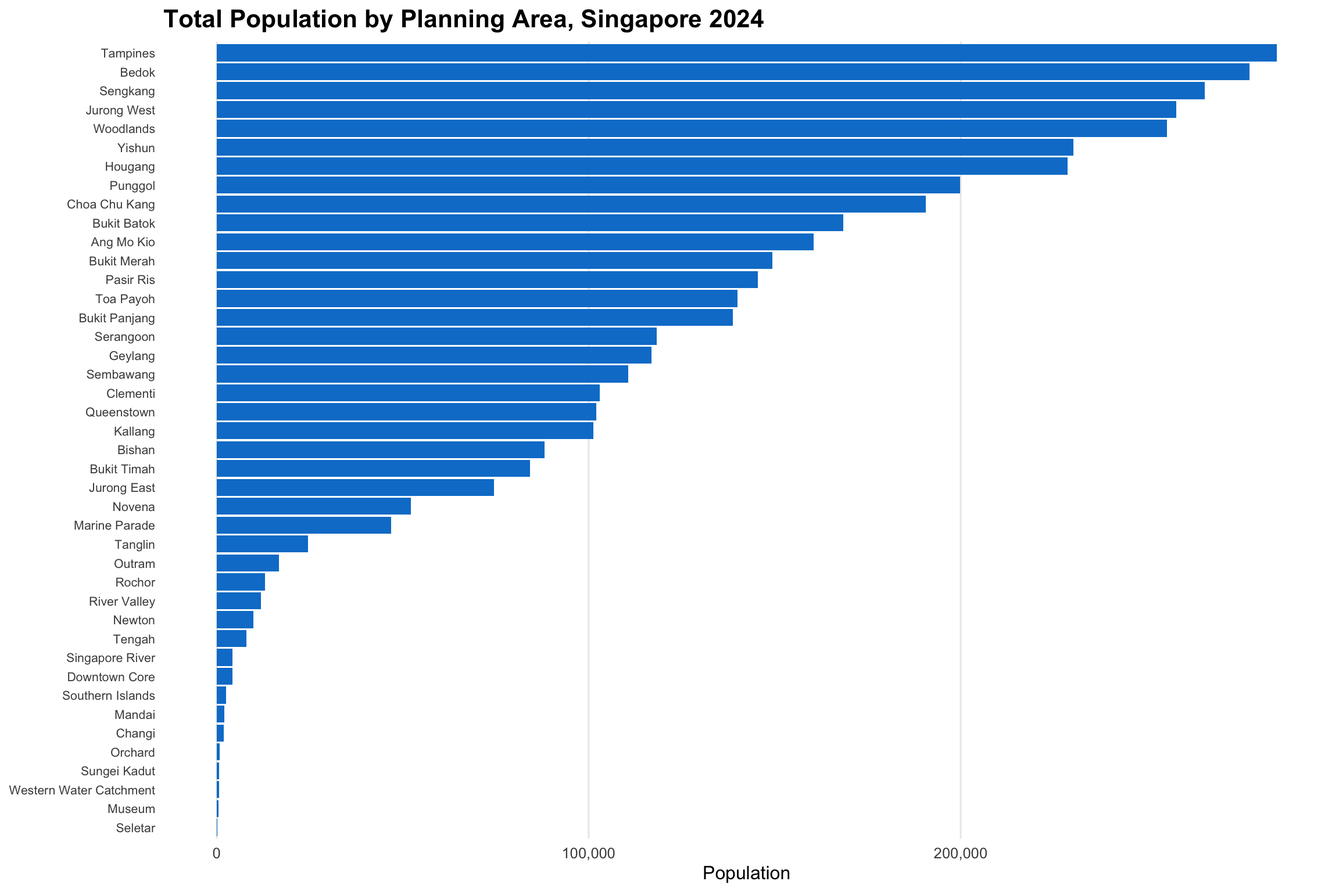
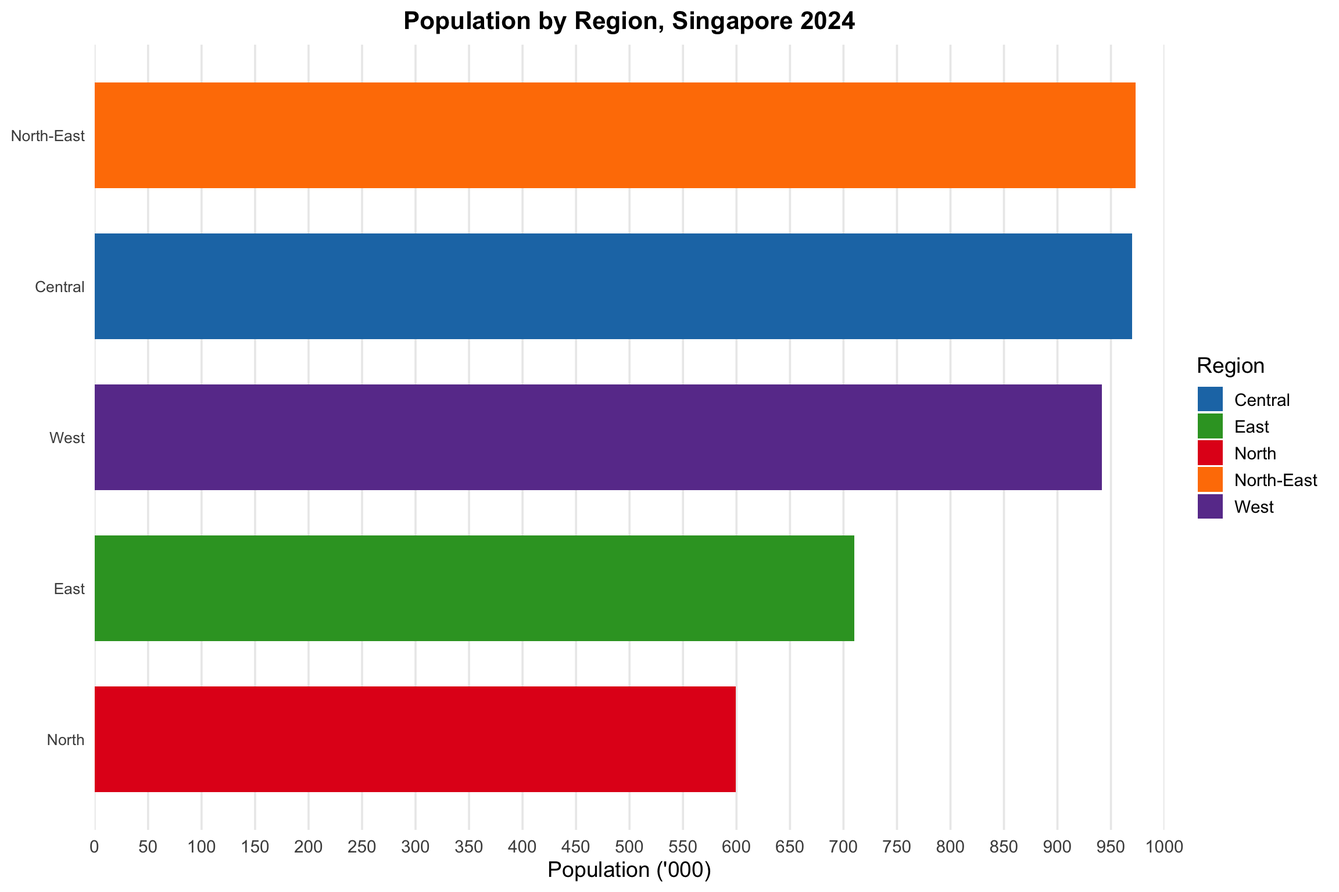
Second iteration check of take home exercise 1

diff --git a/_site/Take-home_Ex/Take-home_Ex01/Take-home_Ex01.html b/_site/Take-home_Ex/Take-home_Ex01/Take-home_Ex01.html
@@ -251,7 +251,7 @@ pre > code.sourceCode > span > a:first-child::before { text-decoration: underlin
 <section id="importing-packages" class="level1">
 <h1>1 Importing Packages</h1>
 <div class="cell">
-<div class="sourceCode cell-code" id="cb1"><pre class="sourceCode r code-with-copy"><code class="sourceCode r"><span id="cb1-1"><a href="#cb1-1" aria-hidden="true" tabindex="-1"></a>pacman<span class="sc">::</span><span class="fu">p_load</span>(tidyverse, ggthemes,viridis,ggridges,ggrepel,patchwork, readr, dplyr, Hmisc)</span></code><button title="Copy to Clipboard" class="code-copy-button"><i class="bi"></i></button></pre></div>
+<div class="sourceCode cell-code" id="cb1"><pre class="sourceCode r code-with-copy"><code class="sourceCode r"><span id="cb1-1"><a href="#cb1-1" aria-hidden="true" tabindex="-1"></a>pacman<span class="sc">::</span><span class="fu">p_load</span>(tidyverse, ggthemes,viridis,ggridges,ggrepel,patchwork, readr, dplyr, forcats)</span></code><button title="Copy to Clipboard" class="code-copy-button"><i class="bi"></i></button></pre></div>
 </div>
 </section>
 <section id="importing-data" class="level1">
@@ -695,28 +695,77 @@ Final check and summary
 </div>
 </div>
 <div class="cell">
-<div class="sourceCode cell-code" id="cb52"><pre class="sourceCode r code-with-copy"><code class="sourceCode r"><span id="cb52-1"><a href="#cb52-1" aria-hidden="true" tabindex="-1"></a><span class="co"># 1. Summarise total population by PA</span></span>
-<span id="cb52-2"><a href="#cb52-2" aria-hidden="true" tabindex="-1"></a>pa_pop <span class="ot">&lt;-</span> sgdemo2024 <span class="sc">%&gt;%</span></span>
-<span id="cb52-3"><a href="#cb52-3" aria-hidden="true" tabindex="-1"></a>  <span class="fu">group_by</span>(PA) <span class="sc">%&gt;%</span></span>
-<span id="cb52-4"><a href="#cb52-4" aria-hidden="true" tabindex="-1"></a>  <span class="fu">summarise</span>(<span class="at">TotalPop =</span> <span class="fu">sum</span>(Pop), <span class="at">.groups =</span> <span class="st">"drop"</span>) <span class="sc">%&gt;%</span></span>
-<span id="cb52-5"><a href="#cb52-5" aria-hidden="true" tabindex="-1"></a>  <span class="fu">arrange</span>(TotalPop)</span>
-<span id="cb52-6"><a href="#cb52-6" aria-hidden="true" tabindex="-1"></a></span>
-<span id="cb52-7"><a href="#cb52-7" aria-hidden="true" tabindex="-1"></a><span class="co"># 2. Plot horizontal bars</span></span>
-<span id="cb52-8"><a href="#cb52-8" aria-hidden="true" tabindex="-1"></a><span class="fu">ggplot</span>(pa_pop, <span class="fu">aes</span>(<span class="at">x =</span> TotalPop, <span class="at">y =</span> <span class="fu">fct_reorder</span>(PA, TotalPop))) <span class="sc">+</span></span>
-<span id="cb52-9"><a href="#cb52-9" aria-hidden="true" tabindex="-1"></a>  <span class="fu">geom_col</span>(<span class="at">fill =</span> <span class="st">"#067FD0"</span>) <span class="sc">+</span></span>
-<span id="cb52-10"><a href="#cb52-10" aria-hidden="true" tabindex="-1"></a>  <span class="fu">scale_x_continuous</span>(<span class="at">labels =</span> scales<span class="sc">::</span>comma) <span class="sc">+</span></span>
-<span id="cb52-11"><a href="#cb52-11" aria-hidden="true" tabindex="-1"></a>  <span class="fu">labs</span>(</span>
-<span id="cb52-12"><a href="#cb52-12" aria-hidden="true" tabindex="-1"></a>    <span class="at">title =</span> <span class="st">"Total Population by Planning Area, Singapore 2024"</span>,</span>
-<span id="cb52-13"><a href="#cb52-13" aria-hidden="true" tabindex="-1"></a>    <span class="at">x     =</span> <span class="st">"Population"</span>,</span>
-<span id="cb52-14"><a href="#cb52-14" aria-hidden="true" tabindex="-1"></a>    <span class="at">y     =</span> <span class="cn">NULL</span></span>
-<span id="cb52-15"><a href="#cb52-15" aria-hidden="true" tabindex="-1"></a>  ) <span class="sc">+</span></span>
-<span id="cb52-16"><a href="#cb52-16" aria-hidden="true" tabindex="-1"></a>  <span class="fu">theme_minimal</span>(<span class="at">base_size =</span> <span class="dv">12</span>) <span class="sc">+</span></span>
-<span id="cb52-17"><a href="#cb52-17" aria-hidden="true" tabindex="-1"></a>  <span class="fu">theme</span>(</span>
-<span id="cb52-18"><a href="#cb52-18" aria-hidden="true" tabindex="-1"></a>    <span class="at">plot.title         =</span> <span class="fu">element_text</span>(<span class="at">size =</span> <span class="dv">16</span>, <span class="at">face =</span> <span class="st">"bold"</span>),</span>
-<span id="cb52-19"><a href="#cb52-19" aria-hidden="true" tabindex="-1"></a>    <span class="at">axis.text.y        =</span> <span class="fu">element_text</span>(<span class="at">size =</span> <span class="dv">8</span>),</span>
-<span id="cb52-20"><a href="#cb52-20" aria-hidden="true" tabindex="-1"></a>    <span class="at">panel.grid.major.y =</span> <span class="fu">element_blank</span>(),</span>
-<span id="cb52-21"><a href="#cb52-21" aria-hidden="true" tabindex="-1"></a>    <span class="at">panel.grid.minor   =</span> <span class="fu">element_blank</span>()</span>
-<span id="cb52-22"><a href="#cb52-22" aria-hidden="true" tabindex="-1"></a>  )</span></code><button title="Copy to Clipboard" class="code-copy-button"><i class="bi"></i></button></pre></div>
+<div class="sourceCode cell-code" id="cb52"><pre class="sourceCode r code-with-copy"><code class="sourceCode r"><span id="cb52-1"><a href="#cb52-1" aria-hidden="true" tabindex="-1"></a><span class="co"># 1. Define Planning Areas by Region</span></span>
+<span id="cb52-2"><a href="#cb52-2" aria-hidden="true" tabindex="-1"></a>central      <span class="ot">&lt;-</span> <span class="fu">c</span>(<span class="st">"Bishan"</span>,<span class="st">"Bukit Merah"</span>,<span class="st">"Bukit Timah"</span>,<span class="st">"Downtown Core"</span>,<span class="st">"Geylang"</span>,</span>
+<span id="cb52-3"><a href="#cb52-3" aria-hidden="true" tabindex="-1"></a>                  <span class="st">"Kallang"</span>,<span class="st">"Marina East"</span>,<span class="st">"Marina South"</span>,<span class="st">"Marine Parade"</span>,<span class="st">"Museum"</span>,</span>
+<span id="cb52-4"><a href="#cb52-4" aria-hidden="true" tabindex="-1"></a>                  <span class="st">"Newton"</span>,<span class="st">"Novena"</span>,<span class="st">"Orchard"</span>,<span class="st">"Outram"</span>,<span class="st">"Queenstown"</span>,<span class="st">"River Valley"</span>,</span>
+<span id="cb52-5"><a href="#cb52-5" aria-hidden="true" tabindex="-1"></a>                  <span class="st">"Rochor"</span>,<span class="st">"Singapore River"</span>,<span class="st">"Southern Islands"</span>,<span class="st">"Straits View"</span>,</span>
+<span id="cb52-6"><a href="#cb52-6" aria-hidden="true" tabindex="-1"></a>                  <span class="st">"Tanglin"</span>,<span class="st">"Toa Payoh"</span>)</span>
+<span id="cb52-7"><a href="#cb52-7" aria-hidden="true" tabindex="-1"></a>east         <span class="ot">&lt;-</span> <span class="fu">c</span>(<span class="st">"Bedok"</span>,<span class="st">"Changi"</span>,<span class="st">"Changi Bay"</span>,<span class="st">"Pasir Ris"</span>,<span class="st">"Paya Lebar"</span>,<span class="st">"Tampines"</span>)</span>
+<span id="cb52-8"><a href="#cb52-8" aria-hidden="true" tabindex="-1"></a>north        <span class="ot">&lt;-</span> <span class="fu">c</span>(<span class="st">"Central Water Catchment"</span>,<span class="st">"Lim Chu Kang"</span>,<span class="st">"Mandai"</span>,<span class="st">"Sembawang"</span>,</span>
+<span id="cb52-9"><a href="#cb52-9" aria-hidden="true" tabindex="-1"></a>                  <span class="st">"Simpang"</span>,<span class="st">"Sungei Kadut"</span>,<span class="st">"Woodlands"</span>,<span class="st">"Yishun"</span>)</span>
+<span id="cb52-10"><a href="#cb52-10" aria-hidden="true" tabindex="-1"></a>north_east   <span class="ot">&lt;-</span> <span class="fu">c</span>(<span class="st">"Ang Mo Kio"</span>,<span class="st">"Hougang"</span>,<span class="st">"North-Eastern Islands"</span>,<span class="st">"Punggol"</span>,</span>
+<span id="cb52-11"><a href="#cb52-11" aria-hidden="true" tabindex="-1"></a>                  <span class="st">"Seletar"</span>,<span class="st">"Sengkang"</span>,<span class="st">"Serangoon"</span>)</span>
+<span id="cb52-12"><a href="#cb52-12" aria-hidden="true" tabindex="-1"></a>west         <span class="ot">&lt;-</span> <span class="fu">c</span>(<span class="st">"Boon Lay"</span>,<span class="st">"Bukit Batok"</span>,<span class="st">"Bukit Panjang"</span>,<span class="st">"Choa Chu Kang"</span>,</span>
+<span id="cb52-13"><a href="#cb52-13" aria-hidden="true" tabindex="-1"></a>                  <span class="st">"Clementi"</span>,<span class="st">"Jurong East"</span>,<span class="st">"Jurong West"</span>,<span class="st">"Pioneer"</span>,<span class="st">"Tengah"</span>,</span>
+<span id="cb52-14"><a href="#cb52-14" aria-hidden="true" tabindex="-1"></a>                  <span class="st">"Tuas"</span>,<span class="st">"Western Islands"</span>,<span class="st">"Western Water Catchment"</span>)</span>
+<span id="cb52-15"><a href="#cb52-15" aria-hidden="true" tabindex="-1"></a></span>
+<span id="cb52-16"><a href="#cb52-16" aria-hidden="true" tabindex="-1"></a><span class="co"># 2. Tag each PA with its region</span></span>
+<span id="cb52-17"><a href="#cb52-17" aria-hidden="true" tabindex="-1"></a>sgdemo2024 <span class="ot">&lt;-</span> sgdemo2024 <span class="sc">%&gt;%</span></span>
+<span id="cb52-18"><a href="#cb52-18" aria-hidden="true" tabindex="-1"></a>  <span class="fu">mutate</span>(</span>
+<span id="cb52-19"><a href="#cb52-19" aria-hidden="true" tabindex="-1"></a>    <span class="at">Region =</span> <span class="fu">case_when</span>(</span>
+<span id="cb52-20"><a href="#cb52-20" aria-hidden="true" tabindex="-1"></a>      PA <span class="sc">%in%</span> central    <span class="sc">~</span> <span class="st">"Central"</span>,</span>
+<span id="cb52-21"><a href="#cb52-21" aria-hidden="true" tabindex="-1"></a>      PA <span class="sc">%in%</span> east       <span class="sc">~</span> <span class="st">"East"</span>,</span>
+<span id="cb52-22"><a href="#cb52-22" aria-hidden="true" tabindex="-1"></a>      PA <span class="sc">%in%</span> north      <span class="sc">~</span> <span class="st">"North"</span>,</span>
+<span id="cb52-23"><a href="#cb52-23" aria-hidden="true" tabindex="-1"></a>      PA <span class="sc">%in%</span> north_east <span class="sc">~</span> <span class="st">"North-East"</span>,</span>
+<span id="cb52-24"><a href="#cb52-24" aria-hidden="true" tabindex="-1"></a>      PA <span class="sc">%in%</span> west       <span class="sc">~</span> <span class="st">"West"</span>,</span>
+<span id="cb52-25"><a href="#cb52-25" aria-hidden="true" tabindex="-1"></a>      <span class="cn">TRUE</span>               <span class="sc">~</span> <span class="cn">NA_character_</span></span>
+<span id="cb52-26"><a href="#cb52-26" aria-hidden="true" tabindex="-1"></a>    )</span>
+<span id="cb52-27"><a href="#cb52-27" aria-hidden="true" tabindex="-1"></a>  )</span>
+<span id="cb52-28"><a href="#cb52-28" aria-hidden="true" tabindex="-1"></a></span>
+<span id="cb52-29"><a href="#cb52-29" aria-hidden="true" tabindex="-1"></a><span class="co"># 3. Summarise and convert to thousands</span></span>
+<span id="cb52-30"><a href="#cb52-30" aria-hidden="true" tabindex="-1"></a>region_pop <span class="ot">&lt;-</span> sgdemo2024 <span class="sc">%&gt;%</span></span>
+<span id="cb52-31"><a href="#cb52-31" aria-hidden="true" tabindex="-1"></a>  <span class="fu">filter</span>(<span class="sc">!</span><span class="fu">is.na</span>(Region)) <span class="sc">%&gt;%</span></span>
+<span id="cb52-32"><a href="#cb52-32" aria-hidden="true" tabindex="-1"></a>  <span class="fu">group_by</span>(Region) <span class="sc">%&gt;%</span></span>
+<span id="cb52-33"><a href="#cb52-33" aria-hidden="true" tabindex="-1"></a>  <span class="fu">summarise</span>(<span class="at">TotalPop =</span> <span class="fu">sum</span>(Pop), <span class="at">.groups =</span> <span class="st">"drop"</span>) <span class="sc">%&gt;%</span></span>
+<span id="cb52-34"><a href="#cb52-34" aria-hidden="true" tabindex="-1"></a>  <span class="fu">mutate</span>(<span class="at">TotalPopK =</span> TotalPop <span class="sc">/</span> <span class="dv">1000</span>) <span class="sc">%&gt;%</span></span>
+<span id="cb52-35"><a href="#cb52-35" aria-hidden="true" tabindex="-1"></a>  <span class="fu">arrange</span>(TotalPopK)</span>
+<span id="cb52-36"><a href="#cb52-36" aria-hidden="true" tabindex="-1"></a></span>
+<span id="cb52-37"><a href="#cb52-37" aria-hidden="true" tabindex="-1"></a><span class="co"># 4. Compute max_k and breaks every 50 (’000)</span></span>
+<span id="cb52-38"><a href="#cb52-38" aria-hidden="true" tabindex="-1"></a>max_k    <span class="ot">&lt;-</span> <span class="fu">ceiling</span>(<span class="fu">max</span>(region_pop<span class="sc">$</span>TotalPopK) <span class="sc">/</span> <span class="dv">50</span>) <span class="sc">*</span> <span class="dv">50</span></span>
+<span id="cb52-39"><a href="#cb52-39" aria-hidden="true" tabindex="-1"></a>breaks_k <span class="ot">&lt;-</span> <span class="fu">seq</span>(<span class="dv">0</span>, max_k, <span class="at">by =</span> <span class="dv">50</span>)</span>
+<span id="cb52-40"><a href="#cb52-40" aria-hidden="true" tabindex="-1"></a></span>
+<span id="cb52-41"><a href="#cb52-41" aria-hidden="true" tabindex="-1"></a><span class="co"># 5. Plot, forcing the labels to exact integers</span></span>
+<span id="cb52-42"><a href="#cb52-42" aria-hidden="true" tabindex="-1"></a><span class="fu">ggplot</span>(region_pop, <span class="fu">aes</span>(<span class="at">x =</span> TotalPopK, <span class="at">y =</span> <span class="fu">fct_reorder</span>(Region, TotalPopK), <span class="at">fill =</span> Region)) <span class="sc">+</span></span>
+<span id="cb52-43"><a href="#cb52-43" aria-hidden="true" tabindex="-1"></a>  <span class="fu">geom_col</span>(<span class="at">width =</span> <span class="fl">0.7</span>) <span class="sc">+</span></span>
+<span id="cb52-44"><a href="#cb52-44" aria-hidden="true" tabindex="-1"></a>  <span class="fu">scale_x_continuous</span>(</span>
+<span id="cb52-45"><a href="#cb52-45" aria-hidden="true" tabindex="-1"></a>    <span class="at">name   =</span> <span class="st">"Population ('000)"</span>,</span>
+<span id="cb52-46"><a href="#cb52-46" aria-hidden="true" tabindex="-1"></a>    <span class="at">limits =</span> <span class="fu">c</span>(<span class="dv">0</span>, max_k),</span>
+<span id="cb52-47"><a href="#cb52-47" aria-hidden="true" tabindex="-1"></a>    <span class="at">breaks =</span> breaks_k,</span>
+<span id="cb52-48"><a href="#cb52-48" aria-hidden="true" tabindex="-1"></a>    <span class="at">labels =</span> <span class="fu">as.character</span>(breaks_k),  <span class="co"># exact labels: "0","50","100",...,"1000"</span></span>
+<span id="cb52-49"><a href="#cb52-49" aria-hidden="true" tabindex="-1"></a>    <span class="at">expand =</span> <span class="fu">c</span>(<span class="dv">0</span>, <span class="dv">0</span>)</span>
+<span id="cb52-50"><a href="#cb52-50" aria-hidden="true" tabindex="-1"></a>  ) <span class="sc">+</span></span>
+<span id="cb52-51"><a href="#cb52-51" aria-hidden="true" tabindex="-1"></a>  <span class="fu">scale_fill_manual</span>(</span>
+<span id="cb52-52"><a href="#cb52-52" aria-hidden="true" tabindex="-1"></a>    <span class="at">values =</span> <span class="fu">c</span>(</span>
+<span id="cb52-53"><a href="#cb52-53" aria-hidden="true" tabindex="-1"></a>      <span class="st">"Central"</span>    <span class="ot">=</span> <span class="st">"#1f78b4"</span>,</span>
+<span id="cb52-54"><a href="#cb52-54" aria-hidden="true" tabindex="-1"></a>      <span class="st">"East"</span>       <span class="ot">=</span> <span class="st">"#33a02c"</span>,</span>
+<span id="cb52-55"><a href="#cb52-55" aria-hidden="true" tabindex="-1"></a>      <span class="st">"North"</span>      <span class="ot">=</span> <span class="st">"#e31a1c"</span>,</span>
+<span id="cb52-56"><a href="#cb52-56" aria-hidden="true" tabindex="-1"></a>      <span class="st">"North-East"</span> <span class="ot">=</span> <span class="st">"#ff7f00"</span>,</span>
+<span id="cb52-57"><a href="#cb52-57" aria-hidden="true" tabindex="-1"></a>      <span class="st">"West"</span>       <span class="ot">=</span> <span class="st">"#6a3d9a"</span></span>
+<span id="cb52-58"><a href="#cb52-58" aria-hidden="true" tabindex="-1"></a>    )</span>
+<span id="cb52-59"><a href="#cb52-59" aria-hidden="true" tabindex="-1"></a>  ) <span class="sc">+</span></span>
+<span id="cb52-60"><a href="#cb52-60" aria-hidden="true" tabindex="-1"></a>  <span class="fu">labs</span>(</span>
+<span id="cb52-61"><a href="#cb52-61" aria-hidden="true" tabindex="-1"></a>    <span class="at">title =</span> <span class="st">"Population by Region, Singapore 2024"</span>,</span>
+<span id="cb52-62"><a href="#cb52-62" aria-hidden="true" tabindex="-1"></a>    <span class="at">y     =</span> <span class="cn">NULL</span></span>
+<span id="cb52-63"><a href="#cb52-63" aria-hidden="true" tabindex="-1"></a>  ) <span class="sc">+</span></span>
+<span id="cb52-64"><a href="#cb52-64" aria-hidden="true" tabindex="-1"></a>  <span class="fu">theme_minimal</span>(<span class="at">base_size =</span> <span class="dv">14</span>) <span class="sc">+</span></span>
+<span id="cb52-65"><a href="#cb52-65" aria-hidden="true" tabindex="-1"></a>  <span class="fu">theme</span>(</span>
+<span id="cb52-66"><a href="#cb52-66" aria-hidden="true" tabindex="-1"></a>    <span class="at">plot.title         =</span> <span class="fu">element_text</span>(<span class="at">size =</span> <span class="dv">16</span>, <span class="at">face =</span> <span class="st">"bold"</span>, <span class="at">hjust =</span> <span class="fl">0.5</span>),</span>
+<span id="cb52-67"><a href="#cb52-67" aria-hidden="true" tabindex="-1"></a>    <span class="at">axis.text.y        =</span> <span class="fu">element_text</span>(<span class="at">size =</span> <span class="dv">10</span>),</span>
+<span id="cb52-68"><a href="#cb52-68" aria-hidden="true" tabindex="-1"></a>    <span class="at">panel.grid.major.y =</span> <span class="fu">element_blank</span>(),</span>
+<span id="cb52-69"><a href="#cb52-69" aria-hidden="true" tabindex="-1"></a>    <span class="at">panel.grid.minor   =</span> <span class="fu">element_blank</span>(),</span>
+<span id="cb52-70"><a href="#cb52-70" aria-hidden="true" tabindex="-1"></a>    <span class="at">legend.position    =</span> <span class="st">"right"</span></span>
+<span id="cb52-71"><a href="#cb52-71" aria-hidden="true" tabindex="-1"></a>  )</span></code><button title="Copy to Clipboard" class="code-copy-button"><i class="bi"></i></button></pre></div>
 <div class="cell-output-display">
 <div>
 <figure class="figure">
@@ -727,67 +776,66 @@ Final check and summary
 </div>
 <div class="cell">
 <div class="sourceCode cell-code" id="cb53"><pre class="sourceCode r code-with-copy"><code class="sourceCode r"><span id="cb53-1"><a href="#cb53-1" aria-hidden="true" tabindex="-1"></a><span class="co"># 1. Define Planning Areas by Region</span></span>
-<span id="cb53-2"><a href="#cb53-2" aria-hidden="true" tabindex="-1"></a>central      <span class="ot">&lt;-</span> <span class="fu">c</span>(<span class="st">"Bishan"</span>,<span class="st">"Bukit Merah"</span>,<span class="st">"Bukit Timah"</span>,<span class="st">"Downtown Core"</span>,<span class="st">"Geylang"</span>,</span>
-<span id="cb53-3"><a href="#cb53-3" aria-hidden="true" tabindex="-1"></a>                  <span class="st">"Kallang"</span>,<span class="st">"Marina East"</span>,<span class="st">"Marina South"</span>,<span class="st">"Marine Parade"</span>,<span class="st">"Museum"</span>,</span>
-<span id="cb53-4"><a href="#cb53-4" aria-hidden="true" tabindex="-1"></a>                  <span class="st">"Newton"</span>,<span class="st">"Novena"</span>,<span class="st">"Orchard"</span>,<span class="st">"Outram"</span>,<span class="st">"Queenstown"</span>,<span class="st">"River Valley"</span>,</span>
-<span id="cb53-5"><a href="#cb53-5" aria-hidden="true" tabindex="-1"></a>                  <span class="st">"Rochor"</span>,<span class="st">"Singapore River"</span>,<span class="st">"Southern Islands"</span>,<span class="st">"Straits View"</span>,</span>
-<span id="cb53-6"><a href="#cb53-6" aria-hidden="true" tabindex="-1"></a>                  <span class="st">"Tanglin"</span>,<span class="st">"Toa Payoh"</span>)</span>
-<span id="cb53-7"><a href="#cb53-7" aria-hidden="true" tabindex="-1"></a>east         <span class="ot">&lt;-</span> <span class="fu">c</span>(<span class="st">"Bedok"</span>,<span class="st">"Changi"</span>,<span class="st">"Changi Bay"</span>,<span class="st">"Pasir Ris"</span>,<span class="st">"Paya Lebar"</span>,<span class="st">"Tampines"</span>)</span>
-<span id="cb53-8"><a href="#cb53-8" aria-hidden="true" tabindex="-1"></a>north        <span class="ot">&lt;-</span> <span class="fu">c</span>(<span class="st">"Central Water Catchment"</span>,<span class="st">"Lim Chu Kang"</span>,<span class="st">"Mandai"</span>,<span class="st">"Sembawang"</span>,</span>
-<span id="cb53-9"><a href="#cb53-9" aria-hidden="true" tabindex="-1"></a>                  <span class="st">"Simpang"</span>,<span class="st">"Sungei Kadut"</span>,<span class="st">"Woodlands"</span>,<span class="st">"Yishun"</span>)</span>
-<span id="cb53-10"><a href="#cb53-10" aria-hidden="true" tabindex="-1"></a>north_east   <span class="ot">&lt;-</span> <span class="fu">c</span>(<span class="st">"Ang Mo Kio"</span>,<span class="st">"Hougang"</span>,<span class="st">"North-Eastern Islands"</span>,<span class="st">"Punggol"</span>,</span>
-<span id="cb53-11"><a href="#cb53-11" aria-hidden="true" tabindex="-1"></a>                  <span class="st">"Seletar"</span>,<span class="st">"Sengkang"</span>,<span class="st">"Serangoon"</span>)</span>
-<span id="cb53-12"><a href="#cb53-12" aria-hidden="true" tabindex="-1"></a>west         <span class="ot">&lt;-</span> <span class="fu">c</span>(<span class="st">"Boon Lay"</span>,<span class="st">"Bukit Batok"</span>,<span class="st">"Bukit Panjang"</span>,<span class="st">"Choa Chu Kang"</span>,</span>
-<span id="cb53-13"><a href="#cb53-13" aria-hidden="true" tabindex="-1"></a>                  <span class="st">"Clementi"</span>,<span class="st">"Jurong East"</span>,<span class="st">"Jurong West"</span>,<span class="st">"Pioneer"</span>,<span class="st">"Tengah"</span>,</span>
-<span id="cb53-14"><a href="#cb53-14" aria-hidden="true" tabindex="-1"></a>                  <span class="st">"Tuas"</span>,<span class="st">"Western Islands"</span>,<span class="st">"Western Water Catchment"</span>)</span>
+<span id="cb53-2"><a href="#cb53-2" aria-hidden="true" tabindex="-1"></a>central    <span class="ot">&lt;-</span> <span class="fu">c</span>(<span class="st">"Bishan"</span>,<span class="st">"Bukit Merah"</span>,<span class="st">"Bukit Timah"</span>,<span class="st">"Downtown Core"</span>,<span class="st">"Geylang"</span>,</span>
+<span id="cb53-3"><a href="#cb53-3" aria-hidden="true" tabindex="-1"></a>                <span class="st">"Kallang"</span>,<span class="st">"Marina East"</span>,<span class="st">"Marina South"</span>,<span class="st">"Marine Parade"</span>,<span class="st">"Museum"</span>,</span>
+<span id="cb53-4"><a href="#cb53-4" aria-hidden="true" tabindex="-1"></a>                <span class="st">"Newton"</span>,<span class="st">"Novena"</span>,<span class="st">"Orchard"</span>,<span class="st">"Outram"</span>,<span class="st">"Queenstown"</span>,<span class="st">"River Valley"</span>,</span>
+<span id="cb53-5"><a href="#cb53-5" aria-hidden="true" tabindex="-1"></a>                <span class="st">"Rochor"</span>,<span class="st">"Singapore River"</span>,<span class="st">"Southern Islands"</span>,<span class="st">"Straits View"</span>,</span>
+<span id="cb53-6"><a href="#cb53-6" aria-hidden="true" tabindex="-1"></a>                <span class="st">"Tanglin"</span>,<span class="st">"Toa Payoh"</span>)</span>
+<span id="cb53-7"><a href="#cb53-7" aria-hidden="true" tabindex="-1"></a>east       <span class="ot">&lt;-</span> <span class="fu">c</span>(<span class="st">"Bedok"</span>,<span class="st">"Changi"</span>,<span class="st">"Changi Bay"</span>,<span class="st">"Pasir Ris"</span>,<span class="st">"Paya Lebar"</span>,<span class="st">"Tampines"</span>)</span>
+<span id="cb53-8"><a href="#cb53-8" aria-hidden="true" tabindex="-1"></a>north      <span class="ot">&lt;-</span> <span class="fu">c</span>(<span class="st">"Central Water Catchment"</span>,<span class="st">"Lim Chu Kang"</span>,<span class="st">"Mandai"</span>,<span class="st">"Sembawang"</span>,</span>
+<span id="cb53-9"><a href="#cb53-9" aria-hidden="true" tabindex="-1"></a>                <span class="st">"Simpang"</span>,<span class="st">"Sungei Kadut"</span>,<span class="st">"Woodlands"</span>,<span class="st">"Yishun"</span>)</span>
+<span id="cb53-10"><a href="#cb53-10" aria-hidden="true" tabindex="-1"></a>north_east <span class="ot">&lt;-</span> <span class="fu">c</span>(<span class="st">"Ang Mo Kio"</span>,<span class="st">"Hougang"</span>,<span class="st">"North-Eastern Islands"</span>,<span class="st">"Punggol"</span>,</span>
+<span id="cb53-11"><a href="#cb53-11" aria-hidden="true" tabindex="-1"></a>                <span class="st">"Seletar"</span>,<span class="st">"Sengkang"</span>,<span class="st">"Serangoon"</span>)</span>
+<span id="cb53-12"><a href="#cb53-12" aria-hidden="true" tabindex="-1"></a>west       <span class="ot">&lt;-</span> <span class="fu">c</span>(<span class="st">"Boon Lay"</span>,<span class="st">"Bukit Batok"</span>,<span class="st">"Bukit Panjang"</span>,<span class="st">"Choa Chu Kang"</span>,</span>
+<span id="cb53-13"><a href="#cb53-13" aria-hidden="true" tabindex="-1"></a>                <span class="st">"Clementi"</span>,<span class="st">"Jurong East"</span>,<span class="st">"Jurong West"</span>,<span class="st">"Pioneer"</span>,<span class="st">"Tengah"</span>,</span>
+<span id="cb53-14"><a href="#cb53-14" aria-hidden="true" tabindex="-1"></a>                <span class="st">"Tuas"</span>,<span class="st">"Western Islands"</span>,<span class="st">"Western Water Catchment"</span>)</span>
 <span id="cb53-15"><a href="#cb53-15" aria-hidden="true" tabindex="-1"></a></span>
-<span id="cb53-16"><a href="#cb53-16" aria-hidden="true" tabindex="-1"></a><span class="co"># 2. Tag each PA with its region</span></span>
-<span id="cb53-17"><a href="#cb53-17" aria-hidden="true" tabindex="-1"></a>sgdemo2024 <span class="ot">&lt;-</span> sgdemo2024 <span class="sc">%&gt;%</span></span>
-<span id="cb53-18"><a href="#cb53-18" aria-hidden="true" tabindex="-1"></a>  <span class="fu">mutate</span>(</span>
-<span id="cb53-19"><a href="#cb53-19" aria-hidden="true" tabindex="-1"></a>    <span class="at">Region =</span> <span class="fu">case_when</span>(</span>
-<span id="cb53-20"><a href="#cb53-20" aria-hidden="true" tabindex="-1"></a>      PA <span class="sc">%in%</span> central    <span class="sc">~</span> <span class="st">"Central"</span>,</span>
-<span id="cb53-21"><a href="#cb53-21" aria-hidden="true" tabindex="-1"></a>      PA <span class="sc">%in%</span> east       <span class="sc">~</span> <span class="st">"East"</span>,</span>
-<span id="cb53-22"><a href="#cb53-22" aria-hidden="true" tabindex="-1"></a>      PA <span class="sc">%in%</span> north      <span class="sc">~</span> <span class="st">"North"</span>,</span>
-<span id="cb53-23"><a href="#cb53-23" aria-hidden="true" tabindex="-1"></a>      PA <span class="sc">%in%</span> north_east <span class="sc">~</span> <span class="st">"North-East"</span>,</span>
-<span id="cb53-24"><a href="#cb53-24" aria-hidden="true" tabindex="-1"></a>      PA <span class="sc">%in%</span> west       <span class="sc">~</span> <span class="st">"West"</span>,</span>
-<span id="cb53-25"><a href="#cb53-25" aria-hidden="true" tabindex="-1"></a>      <span class="cn">TRUE</span>               <span class="sc">~</span> <span class="cn">NA_character_</span></span>
-<span id="cb53-26"><a href="#cb53-26" aria-hidden="true" tabindex="-1"></a>    )</span>
-<span id="cb53-27"><a href="#cb53-27" aria-hidden="true" tabindex="-1"></a>  )</span>
-<span id="cb53-28"><a href="#cb53-28" aria-hidden="true" tabindex="-1"></a></span>
-<span id="cb53-29"><a href="#cb53-29" aria-hidden="true" tabindex="-1"></a><span class="co"># 3. Summarise and convert to thousands</span></span>
-<span id="cb53-30"><a href="#cb53-30" aria-hidden="true" tabindex="-1"></a>region_pop <span class="ot">&lt;-</span> sgdemo2024 <span class="sc">%&gt;%</span></span>
-<span id="cb53-31"><a href="#cb53-31" aria-hidden="true" tabindex="-1"></a>  <span class="fu">filter</span>(<span class="sc">!</span><span class="fu">is.na</span>(Region)) <span class="sc">%&gt;%</span></span>
-<span id="cb53-32"><a href="#cb53-32" aria-hidden="true" tabindex="-1"></a>  <span class="fu">group_by</span>(Region) <span class="sc">%&gt;%</span></span>
-<span id="cb53-33"><a href="#cb53-33" aria-hidden="true" tabindex="-1"></a>  <span class="fu">summarise</span>(<span class="at">TotalPop =</span> <span class="fu">sum</span>(Pop), <span class="at">.groups =</span> <span class="st">"drop"</span>) <span class="sc">%&gt;%</span></span>
-<span id="cb53-34"><a href="#cb53-34" aria-hidden="true" tabindex="-1"></a>  <span class="fu">mutate</span>(<span class="at">TotalPopK =</span> TotalPop <span class="sc">/</span> <span class="dv">1000</span>) <span class="sc">%&gt;%</span></span>
-<span id="cb53-35"><a href="#cb53-35" aria-hidden="true" tabindex="-1"></a>  <span class="fu">arrange</span>(TotalPopK)</span>
-<span id="cb53-36"><a href="#cb53-36" aria-hidden="true" tabindex="-1"></a></span>
-<span id="cb53-37"><a href="#cb53-37" aria-hidden="true" tabindex="-1"></a><span class="co"># 4. Compute max_k and breaks</span></span>
-<span id="cb53-38"><a href="#cb53-38" aria-hidden="true" tabindex="-1"></a>max_k    <span class="ot">&lt;-</span> <span class="fu">ceiling</span>(<span class="fu">max</span>(region_pop<span class="sc">$</span>TotalPopK) <span class="sc">/</span> <span class="dv">50</span>) <span class="sc">*</span> <span class="dv">50</span></span>
-<span id="cb53-39"><a href="#cb53-39" aria-hidden="true" tabindex="-1"></a>breaks_k <span class="ot">&lt;-</span> <span class="fu">seq</span>(<span class="dv">0</span>, max_k, <span class="at">by =</span> <span class="dv">50</span>)</span>
-<span id="cb53-40"><a href="#cb53-40" aria-hidden="true" tabindex="-1"></a>labels_k <span class="ot">&lt;-</span> <span class="fu">as.character</span>(breaks_k)  <span class="co"># force "1000" instead of "100"</span></span>
-<span id="cb53-41"><a href="#cb53-41" aria-hidden="true" tabindex="-1"></a></span>
-<span id="cb53-42"><a href="#cb53-42" aria-hidden="true" tabindex="-1"></a><span class="co"># 5. Plot</span></span>
-<span id="cb53-43"><a href="#cb53-43" aria-hidden="true" tabindex="-1"></a><span class="fu">ggplot</span>(region_pop, <span class="fu">aes</span>(<span class="at">x =</span> TotalPopK, <span class="at">y =</span> <span class="fu">fct_reorder</span>(Region, TotalPopK))) <span class="sc">+</span></span>
-<span id="cb53-44"><a href="#cb53-44" aria-hidden="true" tabindex="-1"></a>  <span class="fu">geom_col</span>(<span class="at">fill =</span> <span class="st">"#067FD0"</span>, <span class="at">width =</span> <span class="fl">0.7</span>) <span class="sc">+</span></span>
-<span id="cb53-45"><a href="#cb53-45" aria-hidden="true" tabindex="-1"></a>  <span class="fu">scale_x_continuous</span>(</span>
-<span id="cb53-46"><a href="#cb53-46" aria-hidden="true" tabindex="-1"></a>    <span class="at">name   =</span> <span class="st">"Population ('000)"</span>,</span>
-<span id="cb53-47"><a href="#cb53-47" aria-hidden="true" tabindex="-1"></a>    <span class="at">limits =</span> <span class="fu">c</span>(<span class="dv">0</span>, max_k),</span>
-<span id="cb53-48"><a href="#cb53-48" aria-hidden="true" tabindex="-1"></a>    <span class="at">breaks =</span> breaks_k,</span>
-<span id="cb53-49"><a href="#cb53-49" aria-hidden="true" tabindex="-1"></a>    <span class="at">labels =</span> labels_k,</span>
-<span id="cb53-50"><a href="#cb53-50" aria-hidden="true" tabindex="-1"></a>    <span class="at">expand =</span> <span class="fu">c</span>(<span class="dv">0</span>, <span class="dv">0</span>)</span>
-<span id="cb53-51"><a href="#cb53-51" aria-hidden="true" tabindex="-1"></a>  ) <span class="sc">+</span></span>
-<span id="cb53-52"><a href="#cb53-52" aria-hidden="true" tabindex="-1"></a>  <span class="fu">labs</span>(</span>
-<span id="cb53-53"><a href="#cb53-53" aria-hidden="true" tabindex="-1"></a>    <span class="at">title =</span> <span class="st">"Population by Region, Singapore 2024"</span>,</span>
-<span id="cb53-54"><a href="#cb53-54" aria-hidden="true" tabindex="-1"></a>    <span class="at">y     =</span> <span class="cn">NULL</span></span>
-<span id="cb53-55"><a href="#cb53-55" aria-hidden="true" tabindex="-1"></a>  ) <span class="sc">+</span></span>
-<span id="cb53-56"><a href="#cb53-56" aria-hidden="true" tabindex="-1"></a>  <span class="fu">theme_minimal</span>(<span class="at">base_size =</span> <span class="dv">14</span>) <span class="sc">+</span></span>
-<span id="cb53-57"><a href="#cb53-57" aria-hidden="true" tabindex="-1"></a>  <span class="fu">theme</span>(</span>
-<span id="cb53-58"><a href="#cb53-58" aria-hidden="true" tabindex="-1"></a>    <span class="at">plot.title         =</span> <span class="fu">element_text</span>(<span class="at">size =</span> <span class="dv">16</span>, <span class="at">face =</span> <span class="st">"bold"</span>, <span class="at">hjust =</span> <span class="fl">0.5</span>),</span>
-<span id="cb53-59"><a href="#cb53-59" aria-hidden="true" tabindex="-1"></a>    <span class="at">axis.text.y        =</span> <span class="fu">element_text</span>(<span class="at">size =</span> <span class="dv">10</span>),</span>
-<span id="cb53-60"><a href="#cb53-60" aria-hidden="true" tabindex="-1"></a>    <span class="at">panel.grid.major.y =</span> <span class="fu">element_blank</span>(),</span>
-<span id="cb53-61"><a href="#cb53-61" aria-hidden="true" tabindex="-1"></a>    <span class="at">panel.grid.minor   =</span> <span class="fu">element_blank</span>()</span>
-<span id="cb53-62"><a href="#cb53-62" aria-hidden="true" tabindex="-1"></a>  )</span></code><button title="Copy to Clipboard" class="code-copy-button"><i class="bi"></i></button></pre></div>
+<span id="cb53-16"><a href="#cb53-16" aria-hidden="true" tabindex="-1"></a><span class="co"># 2. Summarise total population by PA, then tag Region</span></span>
+<span id="cb53-17"><a href="#cb53-17" aria-hidden="true" tabindex="-1"></a>pa_pop <span class="ot">&lt;-</span> sgdemo2024 <span class="sc">%&gt;%</span></span>
+<span id="cb53-18"><a href="#cb53-18" aria-hidden="true" tabindex="-1"></a>  <span class="fu">group_by</span>(PA) <span class="sc">%&gt;%</span></span>
+<span id="cb53-19"><a href="#cb53-19" aria-hidden="true" tabindex="-1"></a>  <span class="fu">summarise</span>(<span class="at">TotalPop =</span> <span class="fu">sum</span>(Pop), <span class="at">.groups =</span> <span class="st">"drop"</span>) <span class="sc">%&gt;%</span></span>
+<span id="cb53-20"><a href="#cb53-20" aria-hidden="true" tabindex="-1"></a>  <span class="fu">mutate</span>(</span>
+<span id="cb53-21"><a href="#cb53-21" aria-hidden="true" tabindex="-1"></a>    <span class="at">Region =</span> <span class="fu">case_when</span>(</span>
+<span id="cb53-22"><a href="#cb53-22" aria-hidden="true" tabindex="-1"></a>      PA <span class="sc">%in%</span> central    <span class="sc">~</span> <span class="st">"Central"</span>,</span>
+<span id="cb53-23"><a href="#cb53-23" aria-hidden="true" tabindex="-1"></a>      PA <span class="sc">%in%</span> east       <span class="sc">~</span> <span class="st">"East"</span>,</span>
+<span id="cb53-24"><a href="#cb53-24" aria-hidden="true" tabindex="-1"></a>      PA <span class="sc">%in%</span> north      <span class="sc">~</span> <span class="st">"North"</span>,</span>
+<span id="cb53-25"><a href="#cb53-25" aria-hidden="true" tabindex="-1"></a>      PA <span class="sc">%in%</span> north_east <span class="sc">~</span> <span class="st">"North-East"</span>,</span>
+<span id="cb53-26"><a href="#cb53-26" aria-hidden="true" tabindex="-1"></a>      PA <span class="sc">%in%</span> west       <span class="sc">~</span> <span class="st">"West"</span>,</span>
+<span id="cb53-27"><a href="#cb53-27" aria-hidden="true" tabindex="-1"></a>      <span class="cn">TRUE</span>               <span class="sc">~</span> <span class="st">"Other"</span></span>
+<span id="cb53-28"><a href="#cb53-28" aria-hidden="true" tabindex="-1"></a>    )</span>
+<span id="cb53-29"><a href="#cb53-29" aria-hidden="true" tabindex="-1"></a>  ) <span class="sc">%&gt;%</span></span>
+<span id="cb53-30"><a href="#cb53-30" aria-hidden="true" tabindex="-1"></a>  <span class="fu">arrange</span>(TotalPop)</span>
+<span id="cb53-31"><a href="#cb53-31" aria-hidden="true" tabindex="-1"></a></span>
+<span id="cb53-32"><a href="#cb53-32" aria-hidden="true" tabindex="-1"></a><span class="co"># 3. Plot horizontal bars colored by Region</span></span>
+<span id="cb53-33"><a href="#cb53-33" aria-hidden="true" tabindex="-1"></a><span class="fu">ggplot</span>(pa_pop, <span class="fu">aes</span>(<span class="at">x =</span> TotalPop, <span class="at">y =</span> <span class="fu">fct_reorder</span>(PA, TotalPop), <span class="at">fill =</span> Region)) <span class="sc">+</span></span>
+<span id="cb53-34"><a href="#cb53-34" aria-hidden="true" tabindex="-1"></a>  <span class="fu">geom_col</span>() <span class="sc">+</span></span>
+<span id="cb53-35"><a href="#cb53-35" aria-hidden="true" tabindex="-1"></a>  <span class="fu">scale_fill_manual</span>(</span>
+<span id="cb53-36"><a href="#cb53-36" aria-hidden="true" tabindex="-1"></a>    <span class="at">values =</span> <span class="fu">c</span>(</span>
+<span id="cb53-37"><a href="#cb53-37" aria-hidden="true" tabindex="-1"></a>      <span class="st">"Central"</span>    <span class="ot">=</span> <span class="st">"#1f78b4"</span>,</span>
+<span id="cb53-38"><a href="#cb53-38" aria-hidden="true" tabindex="-1"></a>      <span class="st">"East"</span>       <span class="ot">=</span> <span class="st">"#33a02c"</span>,</span>
+<span id="cb53-39"><a href="#cb53-39" aria-hidden="true" tabindex="-1"></a>      <span class="st">"North"</span>      <span class="ot">=</span> <span class="st">"#e31a1c"</span>,</span>
+<span id="cb53-40"><a href="#cb53-40" aria-hidden="true" tabindex="-1"></a>      <span class="st">"North-East"</span> <span class="ot">=</span> <span class="st">"#ff7f00"</span>,</span>
+<span id="cb53-41"><a href="#cb53-41" aria-hidden="true" tabindex="-1"></a>      <span class="st">"West"</span>       <span class="ot">=</span> <span class="st">"#6a3d9a"</span>,</span>
+<span id="cb53-42"><a href="#cb53-42" aria-hidden="true" tabindex="-1"></a>      <span class="st">"Other"</span>      <span class="ot">=</span> <span class="st">"grey70"</span></span>
+<span id="cb53-43"><a href="#cb53-43" aria-hidden="true" tabindex="-1"></a>    )</span>
+<span id="cb53-44"><a href="#cb53-44" aria-hidden="true" tabindex="-1"></a>  ) <span class="sc">+</span></span>
+<span id="cb53-45"><a href="#cb53-45" aria-hidden="true" tabindex="-1"></a>  <span class="fu">scale_x_continuous</span>(<span class="at">labels =</span> scales<span class="sc">::</span>comma) <span class="sc">+</span></span>
+<span id="cb53-46"><a href="#cb53-46" aria-hidden="true" tabindex="-1"></a>  <span class="fu">labs</span>(</span>
+<span id="cb53-47"><a href="#cb53-47" aria-hidden="true" tabindex="-1"></a>    <span class="at">title =</span> <span class="st">"Total Population by Planning Area, Singapore 2024"</span>,</span>
+<span id="cb53-48"><a href="#cb53-48" aria-hidden="true" tabindex="-1"></a>    <span class="at">subtitle =</span> <span class="st">"Bars colored by region"</span>,</span>
+<span id="cb53-49"><a href="#cb53-49" aria-hidden="true" tabindex="-1"></a>    <span class="at">x     =</span> <span class="st">"Population"</span>,</span>
+<span id="cb53-50"><a href="#cb53-50" aria-hidden="true" tabindex="-1"></a>    <span class="at">y     =</span> <span class="cn">NULL</span>,</span>
+<span id="cb53-51"><a href="#cb53-51" aria-hidden="true" tabindex="-1"></a>    <span class="at">fill  =</span> <span class="st">"Region"</span></span>
+<span id="cb53-52"><a href="#cb53-52" aria-hidden="true" tabindex="-1"></a>  ) <span class="sc">+</span></span>
+<span id="cb53-53"><a href="#cb53-53" aria-hidden="true" tabindex="-1"></a>  <span class="fu">theme_minimal</span>(<span class="at">base_size =</span> <span class="dv">12</span>) <span class="sc">+</span></span>
+<span id="cb53-54"><a href="#cb53-54" aria-hidden="true" tabindex="-1"></a>  <span class="fu">theme</span>(</span>
+<span id="cb53-55"><a href="#cb53-55" aria-hidden="true" tabindex="-1"></a>    <span class="at">plot.title         =</span> <span class="fu">element_text</span>(<span class="at">size =</span> <span class="dv">16</span>, <span class="at">face =</span> <span class="st">"bold"</span>, <span class="at">hjust =</span> <span class="fl">0.5</span>),</span>
+<span id="cb53-56"><a href="#cb53-56" aria-hidden="true" tabindex="-1"></a>    <span class="at">plot.subtitle      =</span> <span class="fu">element_text</span>(<span class="at">size =</span> <span class="dv">12</span>, <span class="at">hjust =</span> <span class="fl">0.5</span>),</span>
+<span id="cb53-57"><a href="#cb53-57" aria-hidden="true" tabindex="-1"></a>    <span class="at">axis.text.y        =</span> <span class="fu">element_text</span>(<span class="at">size =</span> <span class="dv">8</span>),</span>
+<span id="cb53-58"><a href="#cb53-58" aria-hidden="true" tabindex="-1"></a>    <span class="at">panel.grid.major.y =</span> <span class="fu">element_blank</span>(),</span>
+<span id="cb53-59"><a href="#cb53-59" aria-hidden="true" tabindex="-1"></a>    <span class="at">panel.grid.minor   =</span> <span class="fu">element_blank</span>(),</span>
+<span id="cb53-60"><a href="#cb53-60" aria-hidden="true" tabindex="-1"></a>    <span class="at">legend.position    =</span> <span class="st">"right"</span></span>
+<span id="cb53-61"><a href="#cb53-61" aria-hidden="true" tabindex="-1"></a>  )</span></code><button title="Copy to Clipboard" class="code-copy-button"><i class="bi"></i></button></pre></div>
 <div class="cell-output-display">
 <div>
 <figure class="figure">
